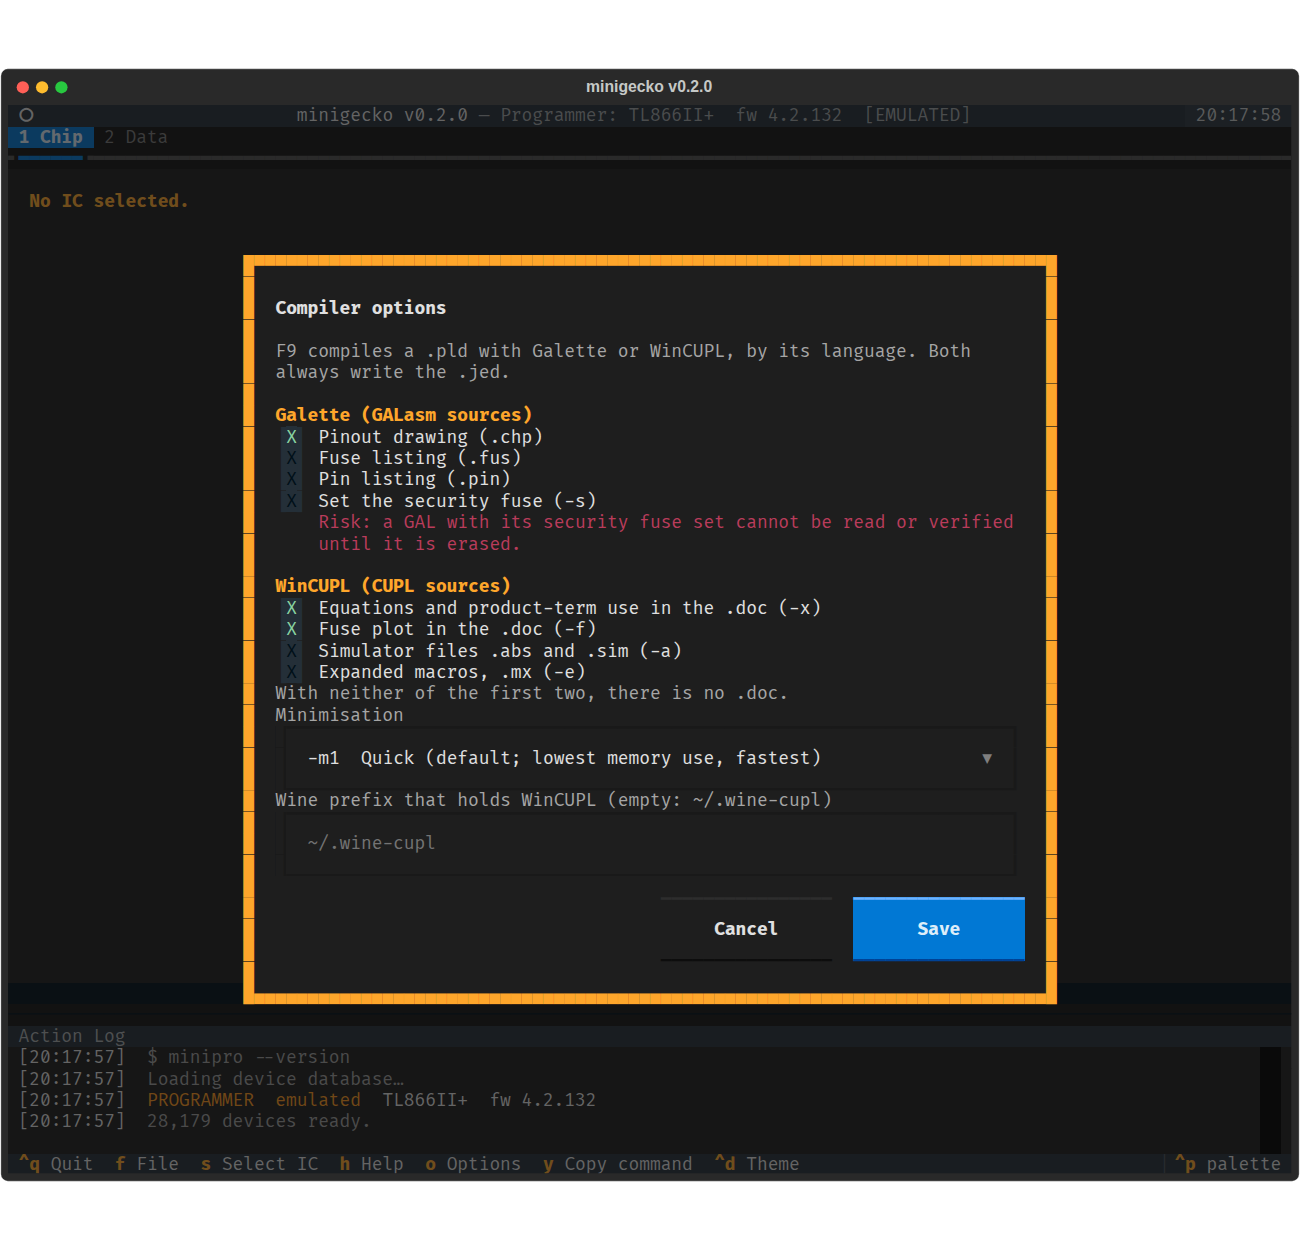
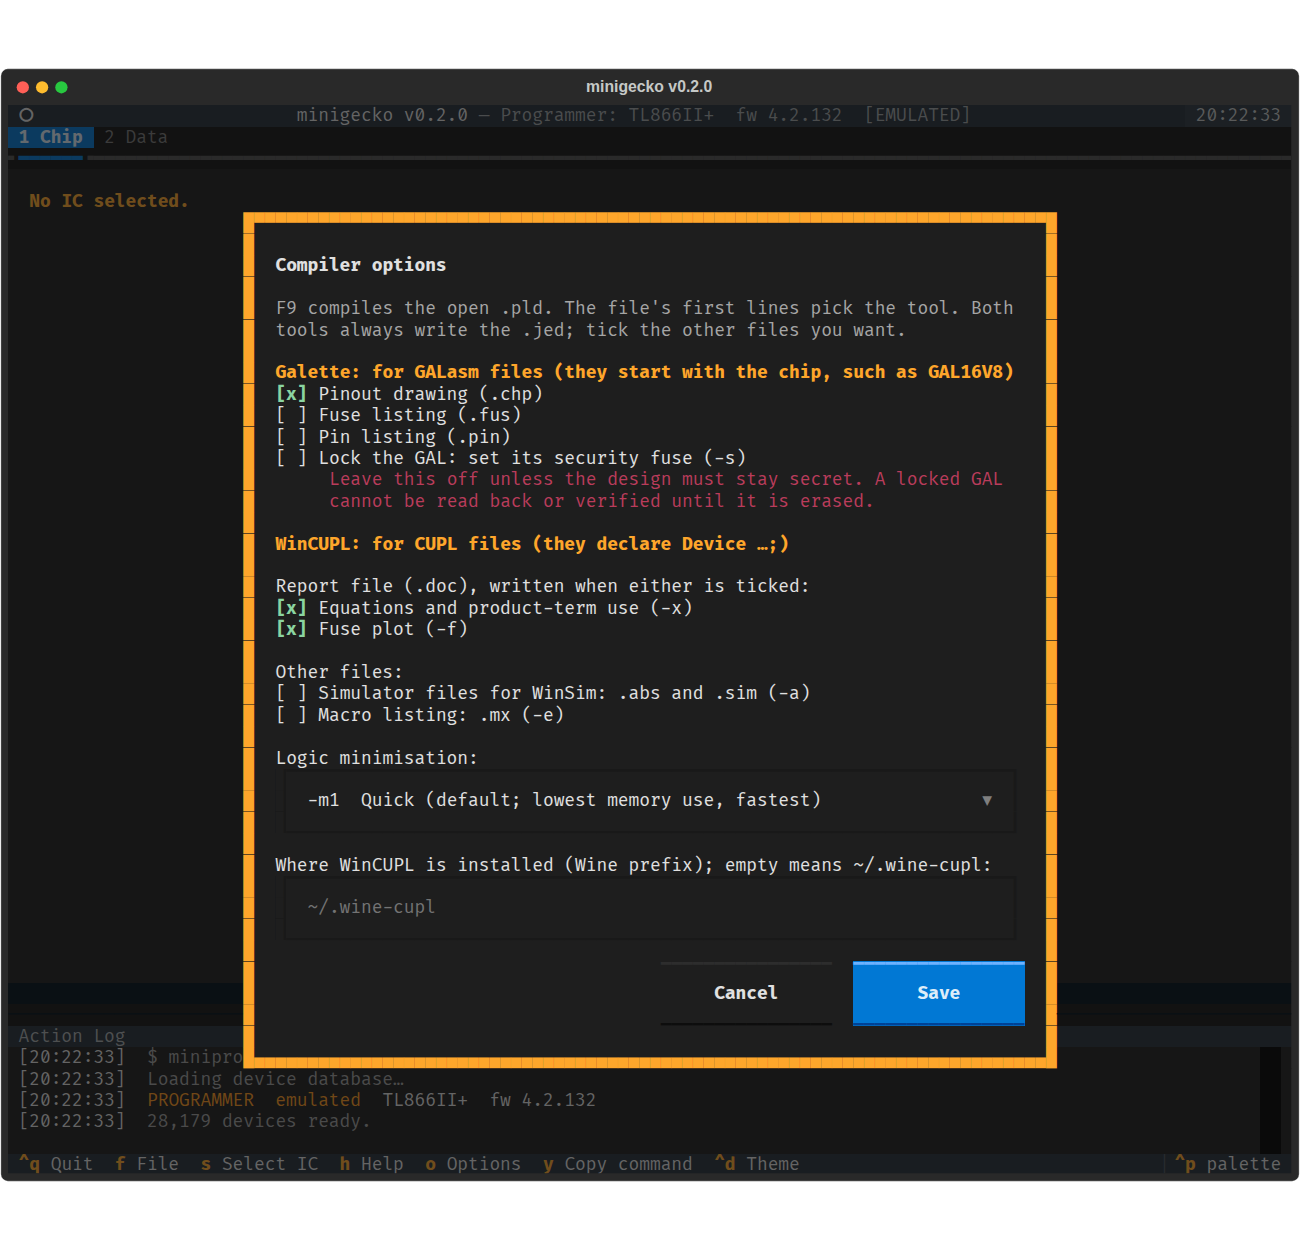
fix(ui): Options screen reads plainly; check boxes show [x] or [ ] (MINIGECKO-01B)
Eric found the Options screen's instructions and risk confusing. Each tool's
heading now says which files go to it; the security fuse is "Lock the GAL"
with its consequence under it; WinCUPL's options sit under "Report file
(.doc)" and "Other files", replacing the "neither of the first two" note.

A new CheckBox widget draws [x] when on and [ ] when off: Textual's stock
box showed the same X either way, only dimmer. The write and erase
confirmations use it too.

diff --git a/minigecko/ui/modals/options.py b/minigecko/ui/modals/options.py
@@ -9,17 +9,18 @@ from textual.screen import ModalScreen
 from textual.widgets import Button, Checkbox, Input, Label, Select, Static
 
 from minigecko.core.pld import DEFAULT_COMPILER_OPTIONS, MINIMIZE_LEVELS
+from minigecko.ui.widgets.check_box import CheckBox
 
 # (tool, key, label) for each check box, in screen order.
 _CHECKS = [
     ("galette", "chp", "Pinout drawing (.chp)"),
     ("galette", "fus", "Fuse listing (.fus)"),
     ("galette", "pin", "Pin listing (.pin)"),
-    ("galette", "secure", "Set the security fuse (-s)"),
-    ("wincupl", "doc_equations", "Equations and product-term use in the .doc (-x)"),
-    ("wincupl", "doc_fuse_plot", "Fuse plot in the .doc (-f)"),
-    ("wincupl", "simulator", "Simulator files .abs and .sim (-a)"),
-    ("wincupl", "macros", "Expanded macros, .mx (-e)"),
+    ("galette", "secure", "Lock the GAL: set its security fuse (-s)"),
+    ("wincupl", "doc_equations", "Equations and product-term use (-x)"),
+    ("wincupl", "doc_fuse_plot", "Fuse plot (-f)"),
+    ("wincupl", "simulator", "Simulator files for WinSim: .abs and .sim (-a)"),
+    ("wincupl", "macros", "Macro listing: .mx (-e)"),
 ]
 
 
@@ -36,7 +37,8 @@ class OptionsScreen(ModalScreen):
     OptionsScreen .opt-title { text-style: bold; margin-bottom: 1; }
     OptionsScreen .opt-section { text-style: bold; color: $accent; margin-top: 1; }
     OptionsScreen .opt-note { color: $text-muted; }
-    OptionsScreen .opt-risk { color: $error; padding-left: 4; }
+    OptionsScreen .opt-risk { color: $error; padding-left: 5; }
+    OptionsScreen .opt-sub { margin-top: 1; }
     OptionsScreen VerticalScroll { height: auto; max-height: 30; }
     OptionsScreen Checkbox { border: none; padding: 0; }
     OptionsScreen Select { width: 100%; }  /* wide enough that no level's words wrap */
@@ -55,38 +57,43 @@ class OptionsScreen(ModalScreen):
         }
         self._wine_prefix = wine_prefix
 
-    def _check(self, tool: str, key: str, label: str) -> Checkbox:
-        return Checkbox(label, value=bool(self._options[tool][key]), id=f"opt-{tool}-{key}")
+    def _check(self, tool: str, key: str, label: str) -> CheckBox:
+        return CheckBox(label, value=bool(self._options[tool][key]), id=f"opt-{tool}-{key}")
 
     def compose(self) -> ComposeResult:
         with Vertical():
             yield Label("Compiler options", classes="opt-title")
             yield Static(
-                "F9 compiles a .pld with Galette or WinCUPL, by its language. "
-                "Both always write the .jed.",
+                "F9 compiles the open .pld. The file's first lines pick the tool. "
+                "Both tools always write the .jed; tick the other files you want.",
                 classes="opt-note",
             )
             with VerticalScroll():
-                yield Label("Galette (GALasm sources)", classes="opt-section")
+                yield Label("Galette: for GALasm files (they start with the chip, such as GAL16V8)",
+                            classes="opt-section")
                 for tool, key, label in _CHECKS[:4]:
                     yield self._check(tool, key, label)
                 yield Static(
-                    "Risk: a GAL with its security fuse set cannot be read or "
-                    "verified until it is erased.",
+                    "Leave this off unless the design must stay secret. A locked GAL "
+                    "cannot be read back or verified until it is erased.",
                     classes="opt-risk",
                 )
-                yield Label("WinCUPL (CUPL sources)", classes="opt-section")
-                for tool, key, label in _CHECKS[4:]:
+                yield Label("WinCUPL: for CUPL files (they declare Device …;)", classes="opt-section")
+                yield Label("Report file (.doc), written when either is ticked:", classes="opt-sub")
+                for tool, key, label in _CHECKS[4:6]:
                     yield self._check(tool, key, label)
-                yield Static("With neither of the first two, there is no .doc.", classes="opt-note")
-                yield Label("Minimisation", classes="opt-note")
+                yield Label("Other files:", classes="opt-sub")
+                for tool, key, label in _CHECKS[6:]:
+                    yield self._check(tool, key, label)
+                yield Label("Logic minimisation:", classes="opt-sub")
                 yield Select(
                     [(f"-m{n}  {words}", n) for n, words in MINIMIZE_LEVELS.items()],
                     value=int(self._options["wincupl"]["minimize"]),
                     allow_blank=False,
                     id="opt-wincupl-minimize",
                 )
-                yield Label("Wine prefix that holds WinCUPL (empty: ~/.wine-cupl)", classes="opt-note")
+                yield Label("Where WinCUPL is installed (Wine prefix); empty means ~/.wine-cupl:",
+                            classes="opt-sub")
                 yield Input(self._wine_prefix, placeholder="~/.wine-cupl", id="opt-wine-prefix")
             with Horizontal(id="opt-buttons"):
                 yield Button("Cancel", id="opt-cancel")

diff --git a/minigecko/ui/modals/confirmations.py b/minigecko/ui/modals/confirmations.py
@@ -8,6 +8,8 @@ from textual.containers import Vertical
 from textual.screen import ModalScreen
 from textual.widgets import Checkbox, Label, Static
 
+from minigecko.ui.widgets.check_box import CheckBox
+
 
 class WriteConfirmScreen(ModalScreen):
     """Write confirmation with optional verify-after-write checkbox."""
@@ -44,7 +46,7 @@ class WriteConfirmScreen(ModalScreen):
             yield Label(self._message, classes="confirm-msg")
             if self._detail:
                 yield Label(self._detail, classes="confirm-detail")
-            yield Checkbox("Read back and verify", value=True, id="chk-verify")
+            yield CheckBox("Read back and verify", value=True, id="chk-verify")
             yield Static("(Space) Toggle    (Enter) Confirm    (Esc) Cancel", classes="confirm-hint")
 
     def action_confirm(self) -> None:
@@ -86,8 +88,8 @@ class EraseConfirmScreen(ModalScreen):
         with Vertical(classes="confirm-container"):
             yield Label(self._title, classes="confirm-title")
             yield Label(self._message, classes="confirm-msg")
-            yield Checkbox("Blank check after erase", value=True, id="chk-blank")
-            yield Checkbox("Read after erase", value=False, id="chk-read")
+            yield CheckBox("Blank check after erase", value=True, id="chk-blank")
+            yield CheckBox("Read after erase", value=False, id="chk-read")
             yield Static("(Space) Toggle    (Enter) Confirm    (Esc) Cancel", classes="confirm-hint")
 
     def action_confirm(self) -> None:

diff --git a/minigecko/ui/widgets/check_box.py b/minigecko/ui/widgets/check_box.py
@@ -1,0 +1,24 @@
+"""A check box that reads as ticked or not without relying on colour."""
+
+from __future__ import annotations
+
+from textual.content import Content
+from textual.widgets import Checkbox
+
+
+class CheckBox(Checkbox):
+    """Textual's Checkbox drawn as ``[x]`` when on and ``[ ]`` when off.
+
+    The stock widget shows the same X either way, only dimmer when off, which
+    read as ticked (Eric, 2026-11-24).
+    """
+
+    DEFAULT_CSS = """
+    CheckBox > .toggle--button { color: $text; background: transparent; }
+    CheckBox.-on > .toggle--button { color: $text-success; background: transparent; text-style: bold; }
+    """
+
+    @property
+    def _button(self) -> Content:
+        style = self.get_visual_style("toggle--button")
+        return Content.assemble(("[x]" if self.value else "[ ]", style))

diff --git a/minigecko/ui/widgets/__init__.py b/minigecko/ui/widgets/__init__.py
@@ -1,6 +1,7 @@
 """UI widget helpers."""
 
+from minigecko.ui.widgets.check_box import CheckBox
 from minigecko.ui.widgets.hex_dump_view import HexDumpView
 from minigecko.ui.widgets.resize_handles import HResizeHandle, VResizeHandle
 
-__all__ = ["HexDumpView", "HResizeHandle", "VResizeHandle"]
+__all__ = ["CheckBox", "HexDumpView", "HResizeHandle", "VResizeHandle"]
